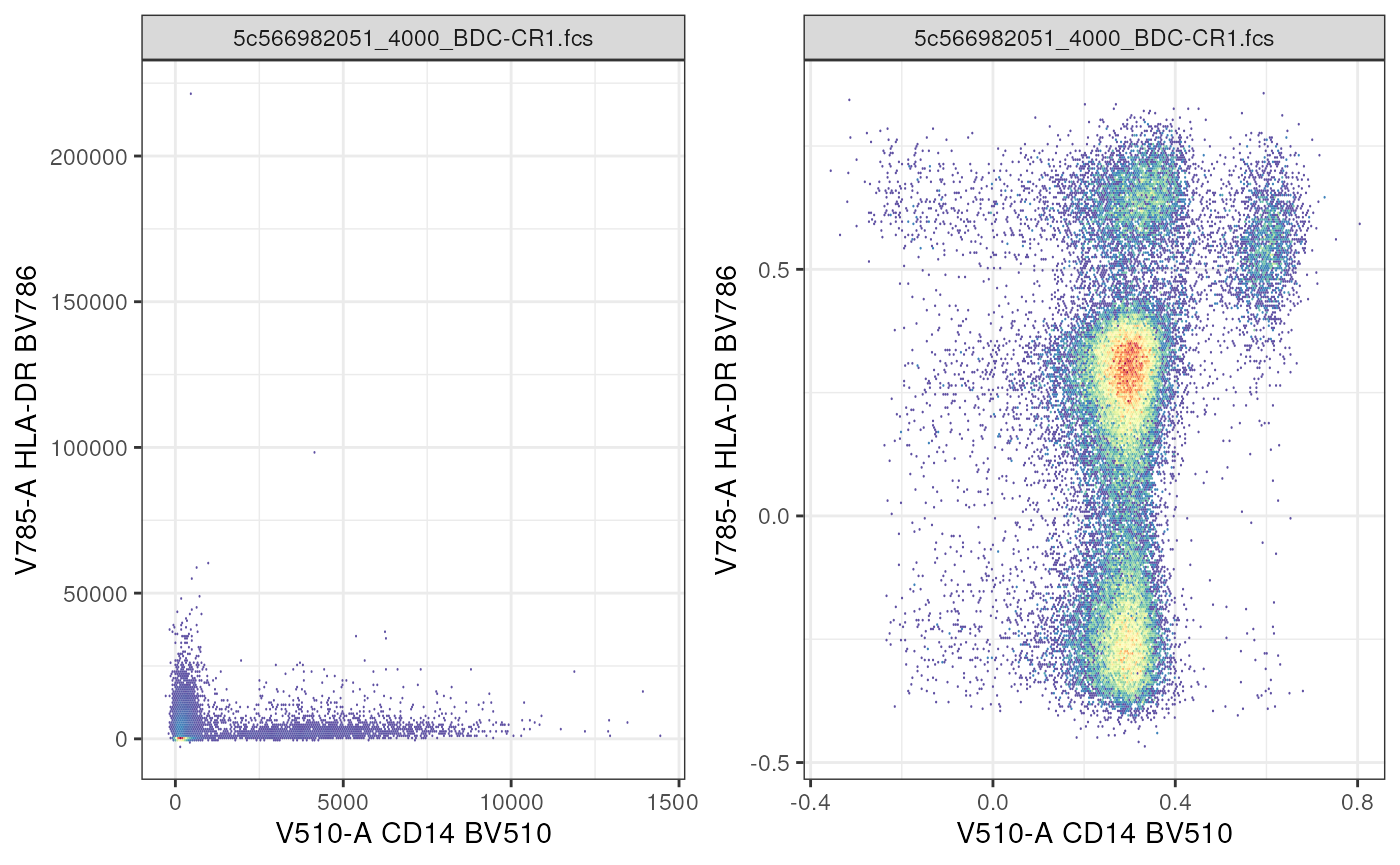
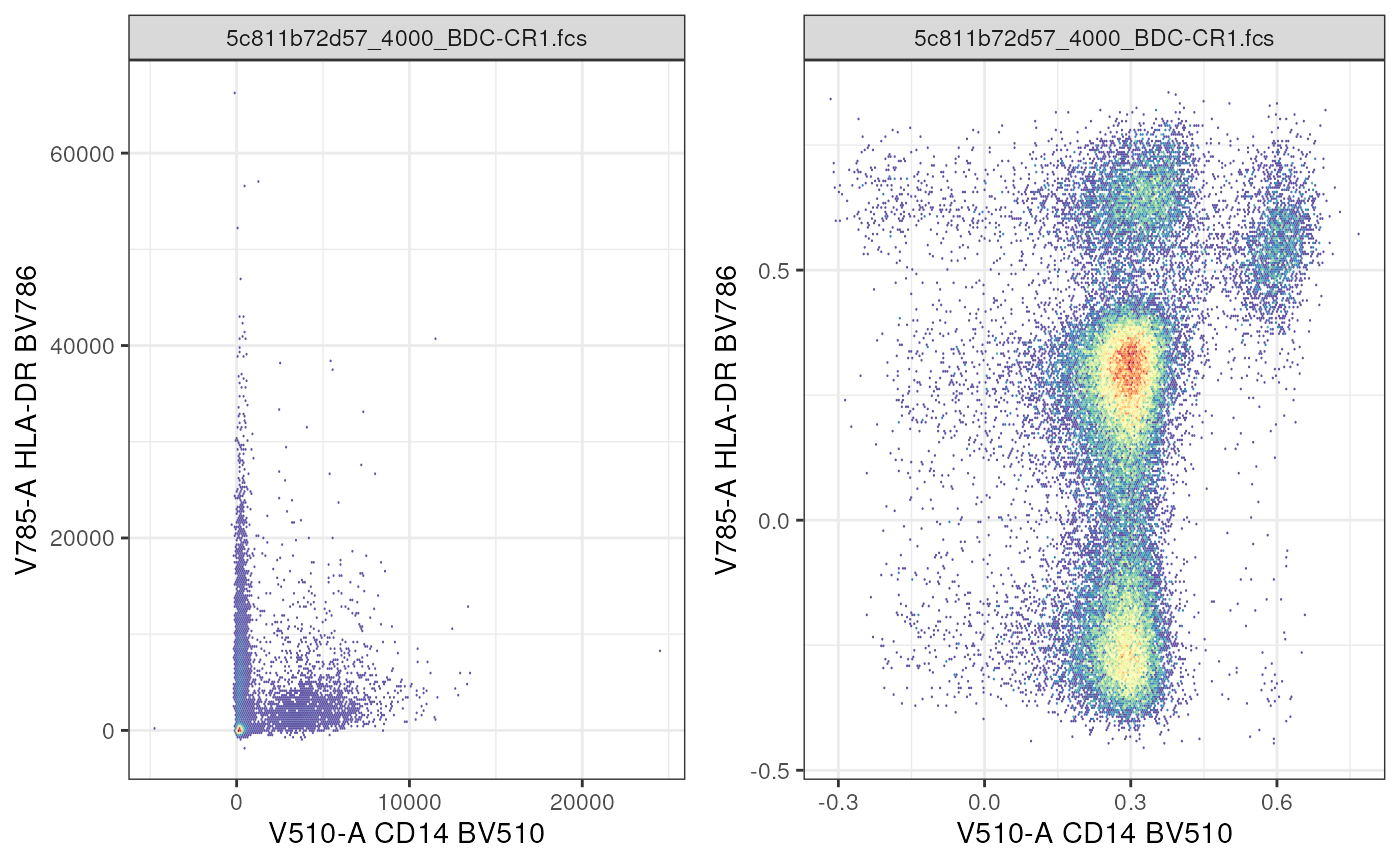
Deploying to gh-pages from @ OzetteTech/cytoverse-bioc-2023@6a5fa4092f27135984c0f09701df9660c130d88e 🚀

diff --git a/articles/1_Import_fcs.html b/articles/1_Import_fcs.html
@@ -278,7 +278,7 @@ indicated in the <code>rpath</code> variable.</p>
 <span></span>
 <span><span class="co"># a cytoframe object</span></span>
 <span><span class="va">cf</span></span></code></pre></div>
-<pre><code><span><span class="co">## cytoframe object '5c571a0f37_4000_TNK-CR1.fcs'</span></span>
+<pre><code><span><span class="co">## cytoframe object '5c858b8f692_4000_TNK-CR1.fcs'</span></span>
 <span><span class="co">## with 102015 cells and 33 observables:</span></span>
 <span><span class="co">##                   name            desc     range  minRange  maxRange</span></span>
 <span><span class="co">## $P1              FSC-A              NA    262143    0.0000    262143</span></span>
@@ -530,7 +530,7 @@ expression matrix <code>exprs(cf)</code> as well as the columns of the
 <code class="sourceCode R"><span><span class="co"># subset cytorame by column</span></span>
 <span><span class="va">s_cf</span> <span class="op">&lt;-</span> <span class="va">cf</span><span class="op">[</span>, <span class="va">CD4_chan</span><span class="op">]</span></span>
 <span><span class="va">s_cf</span></span></code></pre></div>
-<pre><code><span><span class="co">## cytoframe object '5c571a0f37_4000_TNK-CR1.fcs'</span></span>
+<pre><code><span><span class="co">## cytoframe object '5c858b8f692_4000_TNK-CR1.fcs'</span></span>
 <span><span class="co">## with 102015 cells and 1 observables:</span></span>
 <span><span class="co">##        name       desc     range  minRange  maxRange</span></span>
 <span><span class="co">## $P23 U785-A CD4 BUV805    262143  -80.5002    262143</span></span>
@@ -541,7 +541,7 @@ expression matrix <code>exprs(cf)</code> as well as the columns of the
 <code class="sourceCode R"><span><span class="co"># subset cytoframe by row</span></span>
 <span><span class="va">s2_cf</span> <span class="op">&lt;-</span> <span class="va">cf</span><span class="op">[</span><span class="fl">1</span><span class="op">:</span><span class="fl">100</span>, <span class="op">]</span></span>
 <span><span class="va">s2_cf</span></span></code></pre></div>
-<pre><code><span><span class="co">## cytoframe object '5c571a0f37_4000_TNK-CR1.fcs'</span></span>
+<pre><code><span><span class="co">## cytoframe object '5c858b8f692_4000_TNK-CR1.fcs'</span></span>
 <span><span class="co">## with 100 cells and 33 observables:</span></span>
 <span><span class="co">##                   name            desc     range  minRange  maxRange</span></span>
 <span><span class="co">## $P1              FSC-A              NA    262143    0.0000    262143</span></span>
@@ -718,12 +718,12 @@ the <code>sampleNames</code> of the <code>cytoset</code>.</p>
 <code class="sourceCode R"><span><span class="co"># prior to providing metadata</span></span>
 <span><span class="fu"><a href="https://rdrr.io/pkg/Biobase/man/phenoData.html" class="external-link">pData</a></span><span class="op">(</span><span class="va">cs</span><span class="op">)</span></span></code></pre></div>
 <pre><code><span><span class="co">##                                                      name</span></span>
-<span><span class="co">## 5c566982051_4000_BDC-CR1.fcs 5c566982051_4000_BDC-CR1.fcs</span></span>
-<span><span class="co">## 5c571a0f37_4000_TNK-CR1.fcs   5c571a0f37_4000_TNK-CR1.fcs</span></span>
-<span><span class="co">## 5c5158ad61d_4001_BDC-CR1.fcs 5c5158ad61d_4001_BDC-CR1.fcs</span></span>
-<span><span class="co">## 5c537ac7bab_4001_TNK-CR1.fcs 5c537ac7bab_4001_TNK-CR1.fcs</span></span>
-<span><span class="co">## 5c5476d5f1f_4002_TNK-CR1.fcs 5c5476d5f1f_4002_TNK-CR1.fcs</span></span>
-<span><span class="co">## 5c53ed7d81c_4003_TNK-CR1.fcs 5c53ed7d81c_4003_TNK-CR1.fcs</span></span></code></pre>
+<span><span class="co">## 5c811b72d57_4000_BDC-CR1.fcs 5c811b72d57_4000_BDC-CR1.fcs</span></span>
+<span><span class="co">## 5c858b8f692_4000_TNK-CR1.fcs 5c858b8f692_4000_TNK-CR1.fcs</span></span>
+<span><span class="co">## 5c8413f8cf_4001_BDC-CR1.fcs   5c8413f8cf_4001_BDC-CR1.fcs</span></span>
+<span><span class="co">## 5c8208ff8c1_4001_TNK-CR1.fcs 5c8208ff8c1_4001_TNK-CR1.fcs</span></span>
+<span><span class="co">## 5c848da4cf0_4002_TNK-CR1.fcs 5c848da4cf0_4002_TNK-CR1.fcs</span></span>
+<span><span class="co">## 5c81edd68a2_4003_TNK-CR1.fcs 5c81edd68a2_4003_TNK-CR1.fcs</span></span></code></pre>
 <div class="sourceCode" id="cb46"><pre class="downlit sourceCode r">
 <code class="sourceCode R"><span><span class="co"># create metadata</span></span>
 <span><span class="va">metadata</span> <span class="op">&lt;-</span> <span class="fu"><a href="https://rdrr.io/r/base/data.frame.html" class="external-link">data.frame</a></span><span class="op">(</span></span>
@@ -752,12 +752,12 @@ the <code>sampleNames</code> of the <code>cytoset</code>.</p>
 <span><span class="fu"><a href="https://rdrr.io/pkg/Biobase/man/phenoData.html" class="external-link">pData</a></span><span class="op">(</span><span class="va">cs</span><span class="op">)</span> <span class="op">&lt;-</span> <span class="va">metadata</span></span>
 <span><span class="fu"><a href="https://rdrr.io/pkg/Biobase/man/phenoData.html" class="external-link">pData</a></span><span class="op">(</span><span class="va">cs</span><span class="op">)</span></span></code></pre></div>
 <pre><code><span><span class="co">##                              Treatment         panel</span></span>
-<span><span class="co">## 5c566982051_4000_BDC-CR1.fcs Untreated Myeloid Panel</span></span>
-<span><span class="co">## 5c571a0f37_4000_TNK-CR1.fcs    Treated  T Cell Panel</span></span>
-<span><span class="co">## 5c5158ad61d_4001_BDC-CR1.fcs Untreated Myeloid Panel</span></span>
-<span><span class="co">## 5c537ac7bab_4001_TNK-CR1.fcs   Treated  T Cell Panel</span></span>
-<span><span class="co">## 5c5476d5f1f_4002_TNK-CR1.fcs Untreated  T Cell Panel</span></span>
-<span><span class="co">## 5c53ed7d81c_4003_TNK-CR1.fcs   Treated  T Cell Panel</span></span></code></pre>
+<span><span class="co">## 5c811b72d57_4000_BDC-CR1.fcs Untreated Myeloid Panel</span></span>
+<span><span class="co">## 5c858b8f692_4000_TNK-CR1.fcs   Treated  T Cell Panel</span></span>
+<span><span class="co">## 5c8413f8cf_4001_BDC-CR1.fcs  Untreated Myeloid Panel</span></span>
+<span><span class="co">## 5c8208ff8c1_4001_TNK-CR1.fcs   Treated  T Cell Panel</span></span>
+<span><span class="co">## 5c848da4cf0_4002_TNK-CR1.fcs Untreated  T Cell Panel</span></span>
+<span><span class="co">## 5c81edd68a2_4003_TNK-CR1.fcs   Treated  T Cell Panel</span></span></code></pre>
 <p>The benefit of having metadata is that we can use many of the
 sub-setting operations in a metadata specific manner.</p>
 <p>This is much more convenient than going back and forth between the
@@ -774,8 +774,8 @@ full set of files.</p>
 <div class="sourceCode" id="cb53"><pre class="downlit sourceCode r">
 <code class="sourceCode R"><span><span class="fu"><a href="https://rdrr.io/pkg/Biobase/man/phenoData.html" class="external-link">pData</a></span><span class="op">(</span><span class="va">cs_myeloid</span><span class="op">)</span></span></code></pre></div>
 <pre><code><span><span class="co">##                              Treatment         panel</span></span>
-<span><span class="co">## 5c566982051_4000_BDC-CR1.fcs Untreated Myeloid Panel</span></span>
-<span><span class="co">## 5c5158ad61d_4001_BDC-CR1.fcs Untreated Myeloid Panel</span></span></code></pre>
+<span><span class="co">## 5c811b72d57_4000_BDC-CR1.fcs Untreated Myeloid Panel</span></span>
+<span><span class="co">## 5c8413f8cf_4001_BDC-CR1.fcs  Untreated Myeloid Panel</span></span></code></pre>
 <div class="section level3">
 <h3 id="cytoset-views-and-aliasing">Cytoset views and aliasing<a class="anchor" aria-label="anchor" href="#cytoset-views-and-aliasing"></a>
 </h3>
@@ -824,10 +824,10 @@ To confirm this, you can use <code>cs_get_uri</code> or
 <code>cf_get_uri</code>:</p>
 <div class="sourceCode" id="cb63"><pre class="downlit sourceCode r">
 <code class="sourceCode R"><span><span class="fu"><a href="https://rdrr.io/pkg/flowWorkspace/man/cs_get_uri.html" class="external-link">cs_get_uri</a></span><span class="op">(</span><span class="va">cs_small</span><span class="op">)</span></span></code></pre></div>
-<pre><code><span><span class="co">## [1] "/tmp/RtmpeNtbap/7d74d081-0880-4376-8d26-89df9812122c"</span></span></code></pre>
+<pre><code><span><span class="co">## [1] "/tmp/RtmpPRqlub/5ed64824-7392-487f-8db5-3b8ba5fbf44a"</span></span></code></pre>
 <div class="sourceCode" id="cb65"><pre class="downlit sourceCode r">
 <code class="sourceCode R"><span><span class="fu"><a href="https://rdrr.io/pkg/flowWorkspace/man/cs_get_uri.html" class="external-link">cs_get_uri</a></span><span class="op">(</span><span class="va">cs</span><span class="op">)</span></span></code></pre></div>
-<pre><code><span><span class="co">## [1] "/tmp/RtmpeNtbap/7d74d081-0880-4376-8d26-89df9812122c"</span></span></code></pre>
+<pre><code><span><span class="co">## [1] "/tmp/RtmpPRqlub/5ed64824-7392-487f-8db5-3b8ba5fbf44a"</span></span></code></pre>
 <p>To perform a <strong>deep copy</strong> we can use
 <code><a href="https://rdrr.io/pkg/flowWorkspace/man/cytoframe.html" class="external-link">realize_view()</a></code></p>
 <div class="sourceCode" id="cb67"><pre class="downlit sourceCode r">
@@ -933,12 +933,12 @@ attempted to be coerced to a single array like object. (Set
 <span><span class="va">n_cell_events</span> <span class="op">&lt;-</span> <span class="fu"><a href="https://rdrr.io/pkg/flowCore/man/fsApply.html" class="external-link">fsApply</a></span><span class="op">(</span><span class="va">cs</span>, <span class="va">nrow</span><span class="op">)</span></span>
 <span><span class="va">n_cell_events</span></span></code></pre></div>
 <pre><code><span><span class="co">##                                [,1]</span></span>
-<span><span class="co">## 5c566982051_4000_BDC-CR1.fcs 912254</span></span>
-<span><span class="co">## 5c571a0f37_4000_TNK-CR1.fcs  102015</span></span>
-<span><span class="co">## 5c5158ad61d_4001_BDC-CR1.fcs 924474</span></span>
-<span><span class="co">## 5c537ac7bab_4001_TNK-CR1.fcs  92703</span></span>
-<span><span class="co">## 5c5476d5f1f_4002_TNK-CR1.fcs 372224</span></span>
-<span><span class="co">## 5c53ed7d81c_4003_TNK-CR1.fcs 146150</span></span></code></pre>
+<span><span class="co">## 5c811b72d57_4000_BDC-CR1.fcs 912254</span></span>
+<span><span class="co">## 5c858b8f692_4000_TNK-CR1.fcs 102015</span></span>
+<span><span class="co">## 5c8413f8cf_4001_BDC-CR1.fcs  924474</span></span>
+<span><span class="co">## 5c8208ff8c1_4001_TNK-CR1.fcs  92703</span></span>
+<span><span class="co">## 5c848da4cf0_4002_TNK-CR1.fcs 372224</span></span>
+<span><span class="co">## 5c81edd68a2_4003_TNK-CR1.fcs 146150</span></span></code></pre>
 <div class="section level3">
 <h3 id="exercises">Exercises<a class="anchor" aria-label="anchor" href="#exercises"></a>
 </h3>
